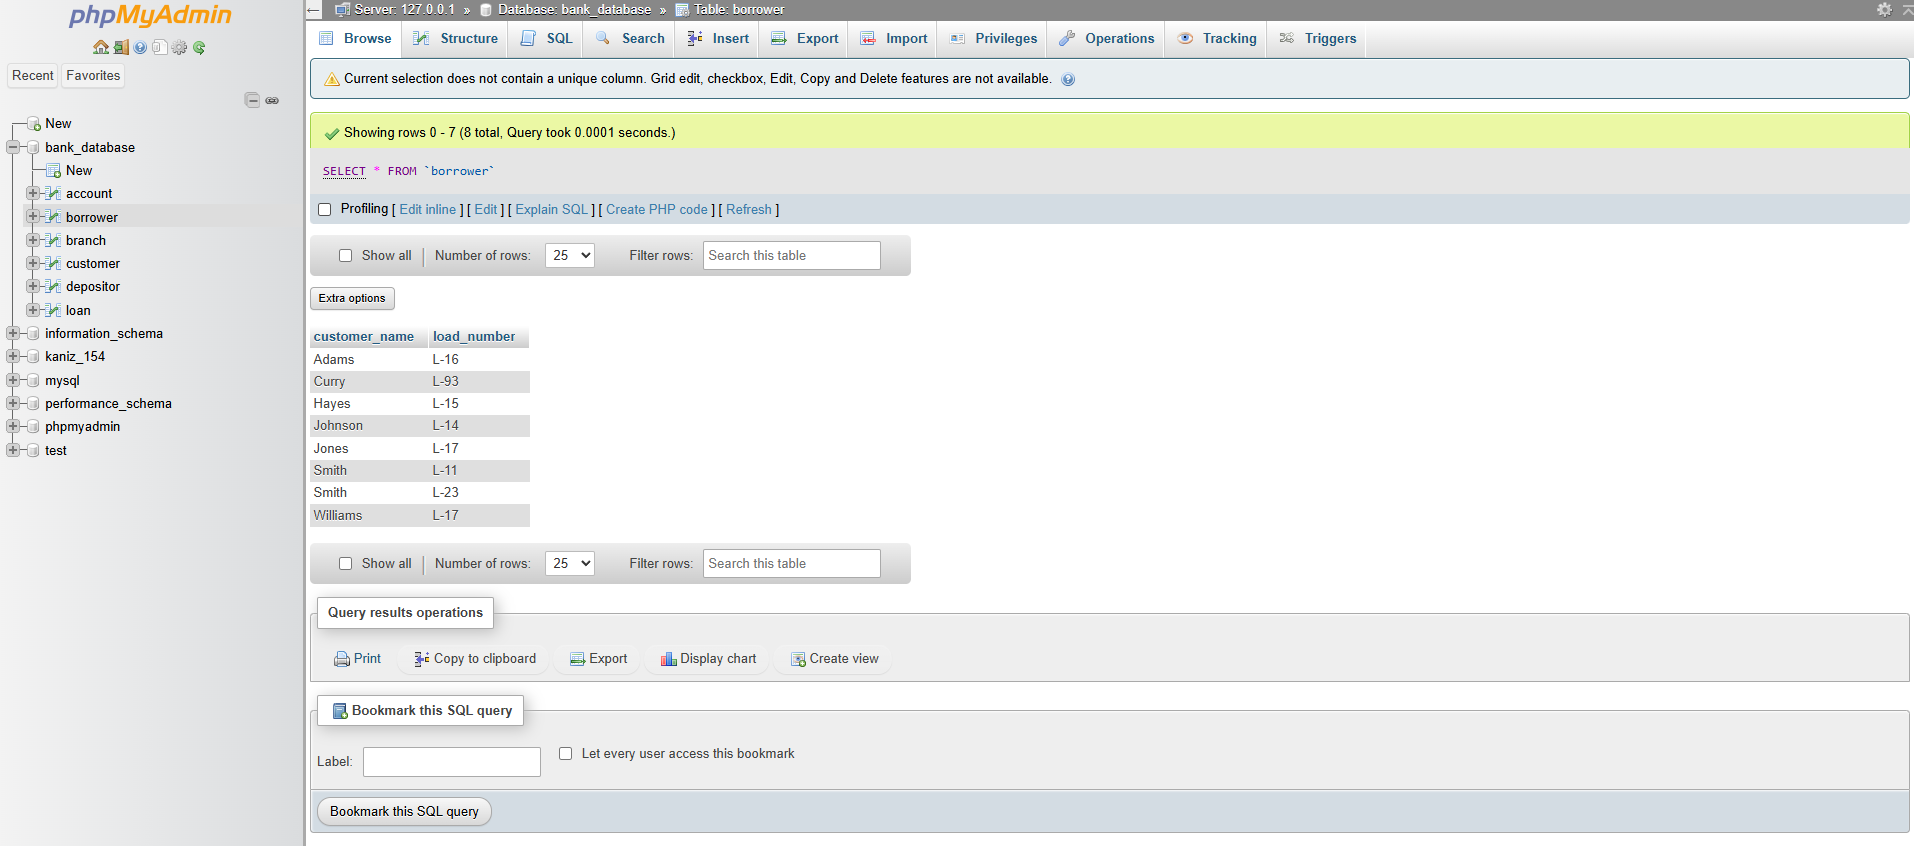
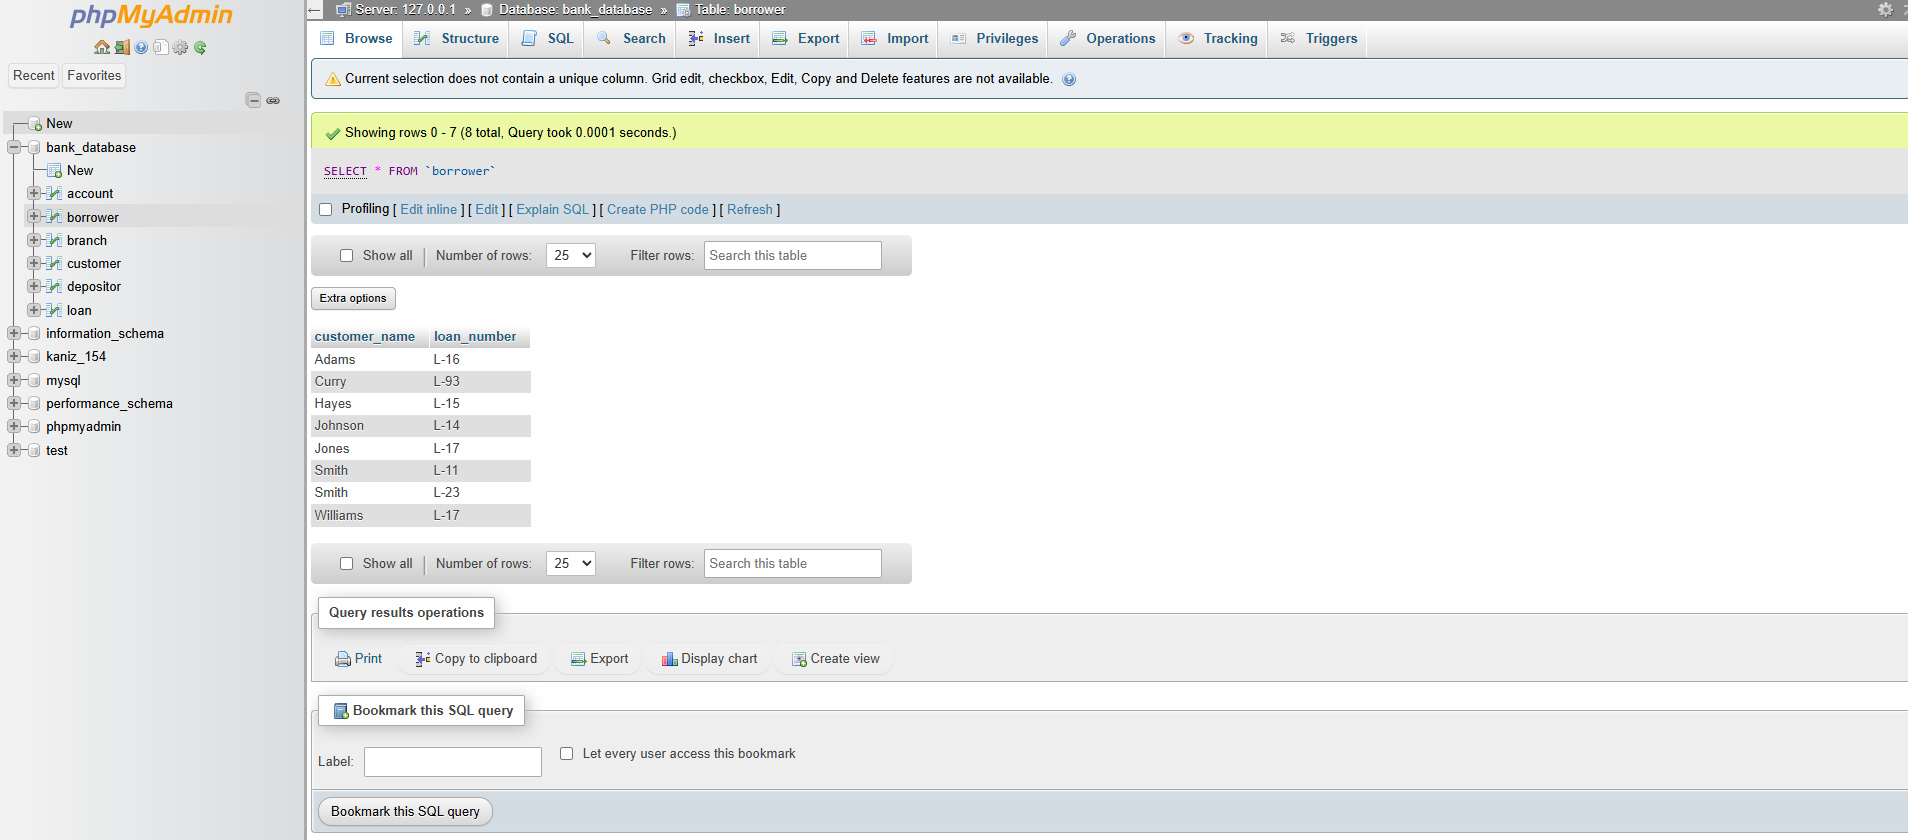
Updated

diff --git a/02_bank-database/Readme.md b/02_bank-database/Readme.md
@@ -11,13 +11,15 @@ CREATE DATABASE bank_database;
 
 ## 2. Create 6 tables in this DB named: `account`, `branch`, `depositor`, `customer`, `loan`, and `borrower`
 
+**Create Account:** 
+
 ```sql
 CREATE TABLE account (account_number char(5), branch_name varchar(16), balance int(7));
 CREATE TABLE branch (branch_name varchar(16), branch_city varchar(16), assets int(8));
 CREATE TABLE depositor (customer_name varchar(16), account_number char(5));
 CREATE TABLE customer (customer_name varchar(16), customer_street varchar(32), customer_city varchar(16));
 CREATE TABLE loan (loan_number char(5), branch_name varchar(16), amount int(8));
-CREATE TABLE borrower (customer_name varchar(16), load_number char(8));
+CREATE TABLE borrower (customer_name varchar(16), loan_number char(8));
 ```
 ![Kaniz154](images/2.png)
 

diff --git a/Readme.md b/Readme.md
@@ -1,0 +1,12 @@
+#  MySQL  
+Here's a list of general SQL queries we've used in our lab so far.
+
+
+##  Change Column Name
+
+To rename a column in a table:
+
+```sql
+ALTER TABLE table_name
+CHANGE old_column_name new_column_name new_data_type;
+```
